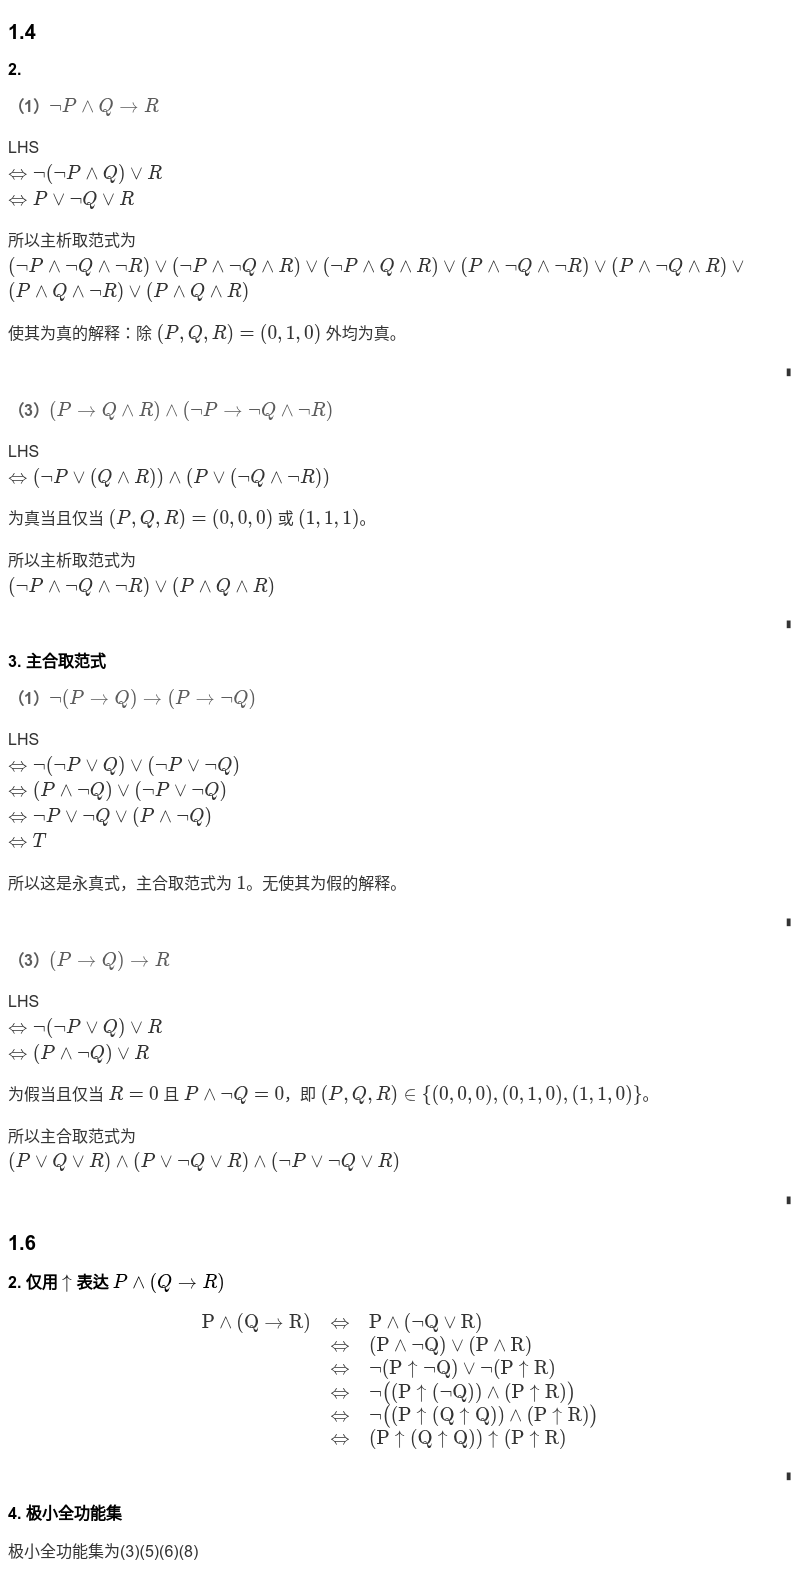
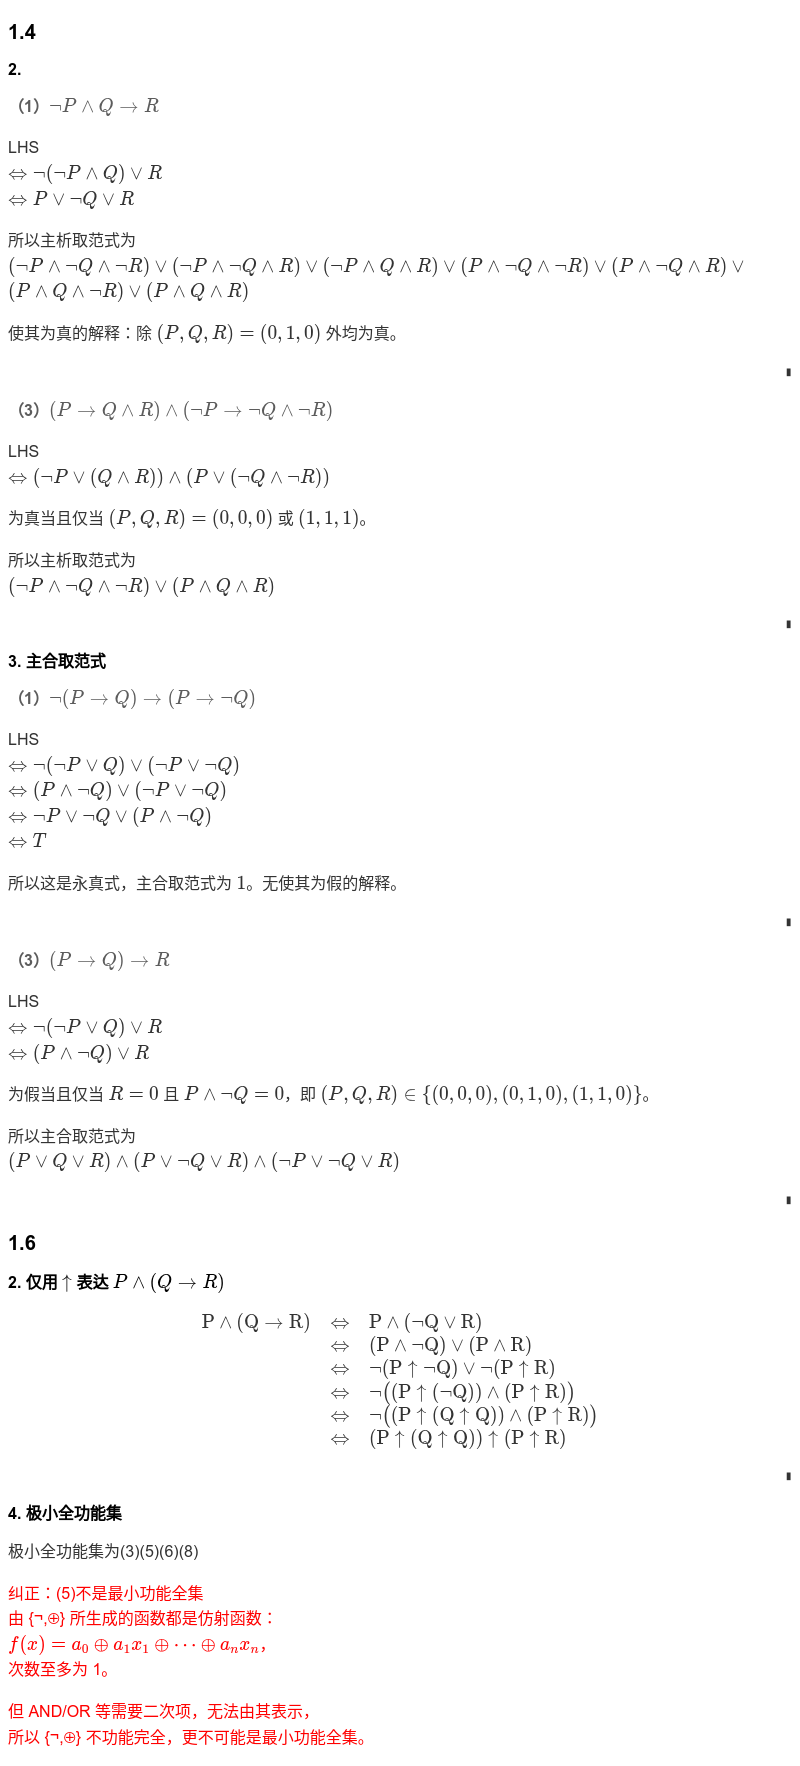
correct hw02:1.6 again

diff --git a/hw02/0919h.md b/hw02/0919h.md
@@ -72,3 +72,14 @@ $$
 
 
 极小全功能集为(3)(5)(6)(8)
+
+<span style="color:red">
+纠正：(5)不是最小功能全集
+
+由 {¬,⊕} 所生成的函数都是仿射函数：  
+$f(x)=a_0 \oplus a_1x_1 \oplus \cdots \oplus a_nx_n$，  
+次数至多为 1。  
+
+但 AND/OR 等需要二次项，无法由其表示，  
+所以 {¬,⊕} 不功能完全，更不可能是最小功能全集。  
+</span>
